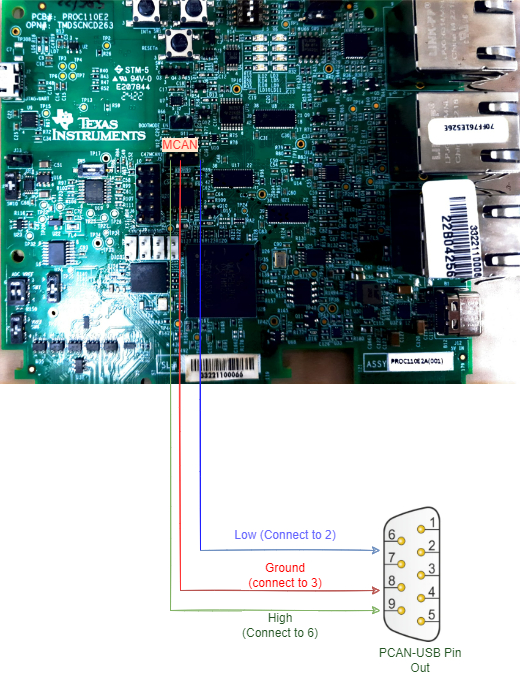
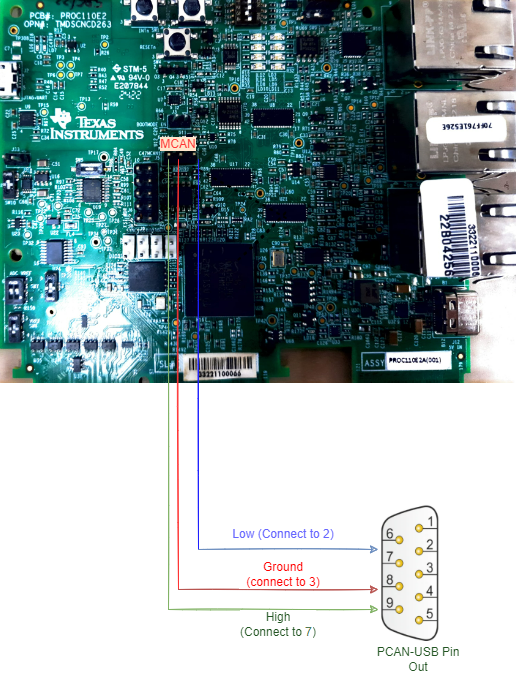
am263x: can: update sbl_can_uniflash
- Update can uniflash example
- Update mcan documentation images with correct PCAN pinout number
- Rename MCASP to MCAN in bit params config template file

Fixes: MCUSDK-12443

diff --git a/examples/drivers/boot/sbl_can_uniflash/am263x-cc/r5fss0-0_nortos/main.c b/examples/drivers/boot/sbl_can_uniflash/am263x-cc/r5fss0-0_nortos/main.c
@@ -37,6 +37,8 @@
 #include <drivers/bootloader/bootloader_uniflash.h>
 #include <drivers/hsmclient/soc/am263x/hsmRtImg.h> /* hsmRt bin   header file */
 
+const uint8_t gHsmRtFw[HSMRT_IMG_SIZE_IN_BYTES] __attribute__((section(".rodata.hsmrt"))) = HSMRT_IMG;
+
 #define BOOTLOADER_UNIFLASH_MAX_FILE_SIZE (0x1C0000) /* This has to match the size of MSRAM1 section in linker.cmd */
 uint8_t gUniflashFileBuf[BOOTLOADER_UNIFLASH_MAX_FILE_SIZE] __attribute__((aligned(128), section(".bss.filebuf")));
 
@@ -60,12 +62,13 @@ int main()
 {
     int32_t status;
     uint32_t done = 0U;
-    uint32_t fileSize;
+    uint32_t fileSize = 0U;
     Bootloader_UniflashConfig uniflashConfig;
     Bootloader_UniflashResponseHeader respHeader;
 
+    Bootloader_profileReset();
     Bootloader_socConfigurePll();
-    Bootloader_socInitL2MailBoxMemory();
+    Bootloader_socSetAutoClock();
 
     System_init();
     Bootloader_profileAddProfilePoint("System_init");
@@ -74,11 +77,13 @@ int main()
     Bootloader_profileAddProfilePoint("Drivers_open");
 
     DebugP_log("\r\n");
-
+    Bootloader_socLoadHsmRtFw(gHsmRtFw, HSMRT_IMG_SIZE_IN_BYTES);
+    Bootloader_socInitL2MailBoxMemory();
+    Bootloader_profileAddProfilePoint("LoadHsmRtFw");
+    
     status = Board_driversOpen();
     DebugP_assert(status == SystemP_SUCCESS);
-
-    Bootloader_socCpuSetClock(CSL_CORE_ID_R5FSS0_0, (uint32_t)(400*1000000));
+    Bootloader_profileAddProfilePoint("Board_driversOpen");
 
     Bootloader_CANInit(CONFIG_MCAN0_BASE_ADDR);
 
@@ -154,7 +159,7 @@ int main()
             {
                 bootImageInfo.cpuInfo[CSL_CORE_ID_R5FSS0_0].clkHz = Bootloader_socCpuGetClkDefault(CSL_CORE_ID_R5FSS0_0);
                 Bootloader_profileAddCore(CSL_CORE_ID_R5FSS0_0);
-                status = Bootloader_loadCpu(bootHandle, &bootImageInfo.cpuInfo[CSL_CORE_ID_R5FSS0_0]);
+                status = Bootloader_loadSelfCpu(bootHandle, &bootImageInfo.cpuInfo[CSL_CORE_ID_R5FSS0_0], TRUE);
             }
             Bootloader_profileAddProfilePoint("CPU load");
             Bootloader_profileUpdateAppimageSize(Bootloader_getMulticoreImageSize(bootHandle));
@@ -184,6 +189,11 @@ int main()
             }
             if((status == SystemP_SUCCESS) && (TRUE == Bootloader_isCorePresent(bootHandle, CSL_CORE_ID_R5FSS0_0)))
             {
+                /* Load the image on self core now */
+                if( bootImageInfo.cpuInfo[CSL_CORE_ID_R5FSS0_0].rprcOffset != BOOTLOADER_INVALID_ID)
+                {
+                    status = Bootloader_rprcImageLoad(bootHandle, &bootImageInfo.cpuInfo[CSL_CORE_ID_R5FSS0_0]);
+                }
                 /* If any of the R5 core 0 have valid image reset the R5 core. */
                 status = Bootloader_runSelfCpu(bootHandle, &bootImageInfo);
             }
